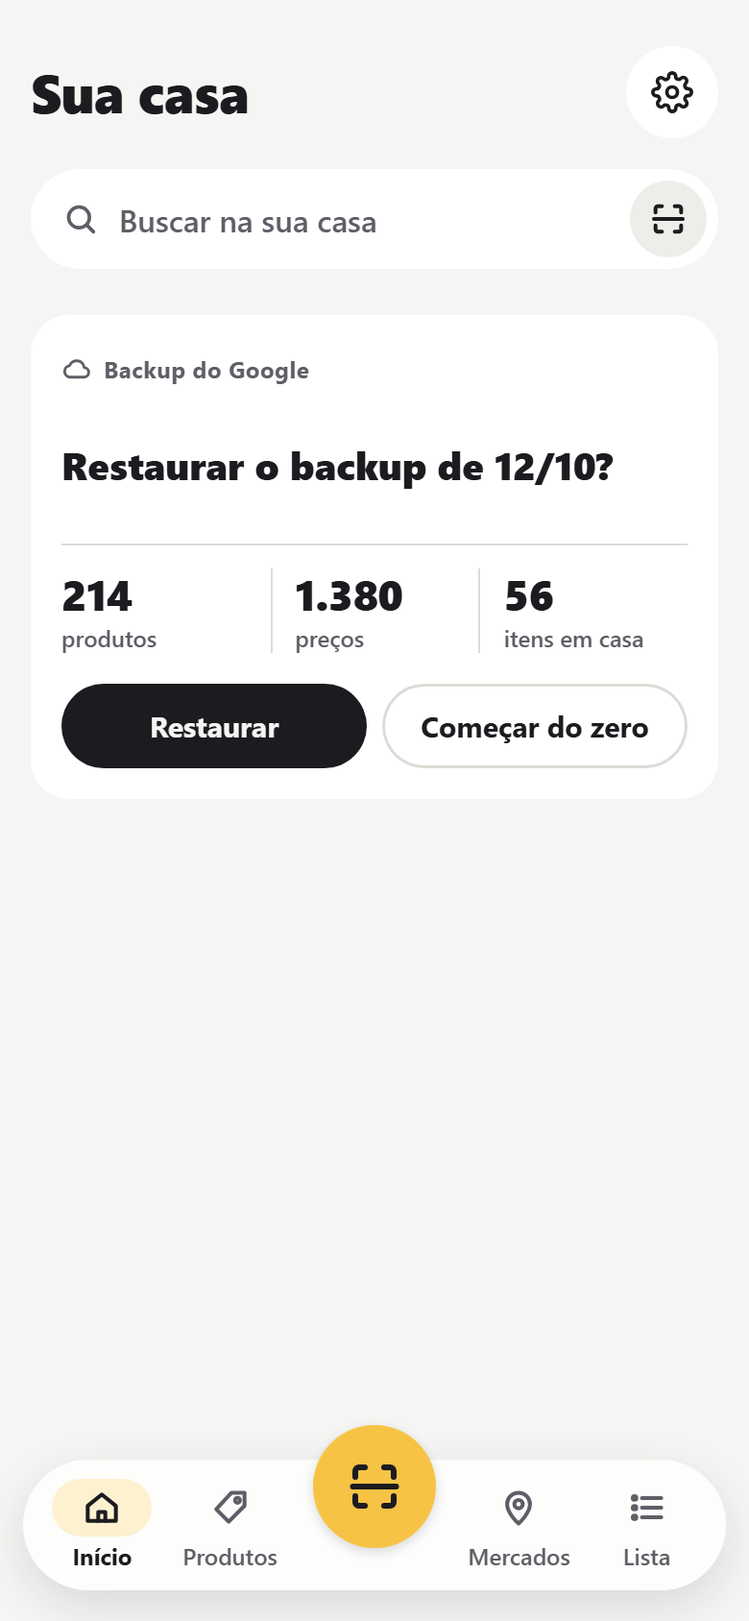
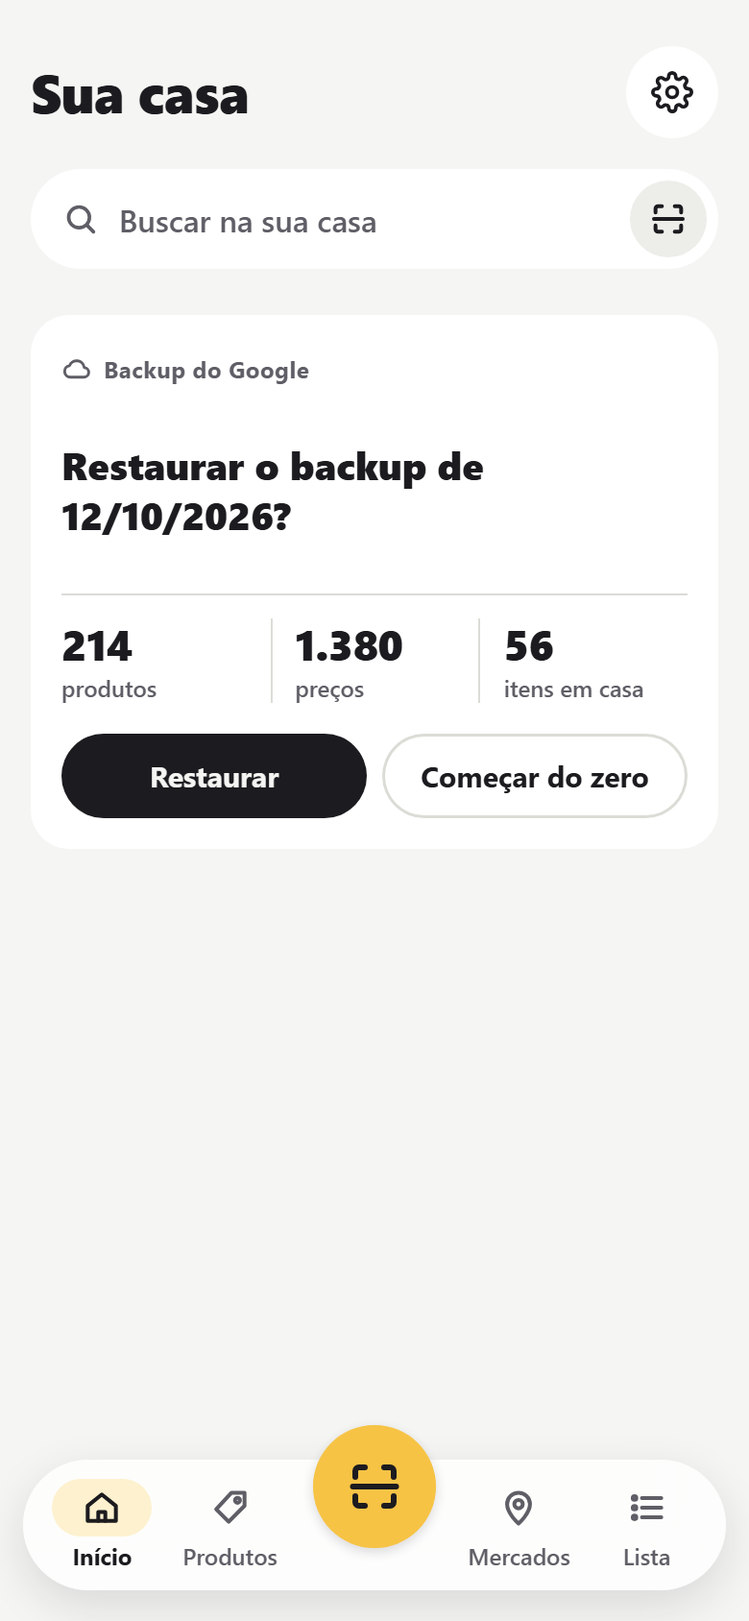
docs(design): mantém o cartão do backup encontrado até a resposta
Quadro InicioBackupPendente (BK1): com itens em casa, o cartão continua,
menor, "Restaurar" passa pela folha de confirmação e "Deixar de lado"
avisa que o próximo backup grava por cima. O InicioBackupEncontrado
ganha o ano no título, e o README deixa de prometer que o arquivo é
restaurável pelos Ajustes, o que o app não faz. Aguarda revisão.

diff --git a/docs/design/prototipo/fonte/InicioBackupPendente.dc.html b/docs/design/prototipo/fonte/InicioBackupPendente.dc.html
@@ -1,0 +1,99 @@
+<!doctype html>
+<html lang="pt-BR">
+<head>
+<meta charset="utf-8">
+<title>Casa: backup de outro celular ainda sem resposta</title>
+<script src="./support.js"></script>
+<link rel="stylesheet" href="styles/tokens.css">
+<link rel="stylesheet" href="ds/bipa/components/bundle.css">
+</head>
+<body>
+<x-dc>
+<helmet>
+<link rel="stylesheet" href="https://fonts.googleapis.com/css2?family=Manrope:wght@600..800&amp;family=Figtree:wght@400..700&amp;family=JetBrains+Mono:wght@500&amp;display=swap">
+<style>
+body{margin:0}
+a{color:#1C1B22}a:hover{color:#B00E28}
+.screen{position:relative;width:780px;height:970px;box-sizing:border-box;overflow:hidden;background:var(--surface-sunken);display:grid;grid-template-columns:repeat(2,360px);gap:20px;padding:20px 20px 0}
+.col{display:grid;align-content:start;grid-template-rows:118px auto auto;gap:10px}
+.note h2{margin:0;font:800 18px/24px var(--font-display);color:var(--ink)}
+.note p{margin:4px 0 0;font:500 13px/18px var(--font-body);color:var(--ink-muted)}
+.measure{margin:0;padding:10px 14px;border-radius:14px;background:var(--surface);font:500 13px/18px var(--font-body);color:var(--ink)}
+.measure b{font-weight:700}
+.phone{position:relative;height:700px;border-radius:28px;overflow:hidden;background:var(--ground)}
+
+.title{margin:0;font:800 28px/34px var(--font-display);letter-spacing:-0.01em;color:var(--ink)}
+.round-btn{display:grid;place-items:center;width:48px;height:48px;border:0;border-radius:50%;background:var(--surface);color:var(--ink)}
+.nav-wrap{position:absolute;left:12px;right:12px;bottom:16px;z-index:3}
+.content{display:flex;flex-direction:column;gap:20px;padding:20px 12px 130px}
+.head{display:flex;flex-direction:column;gap:16px}
+.title-row{display:flex;align-items:center;justify-content:space-between;gap:12px}
+.title-row .round-btn{text-decoration:none}
+.section{display:flex;flex-direction:column;gap:8px}
+.section-head{display:flex;align-items:center;gap:8px;padding:0 4px}
+.section-title{margin:0;font:700 20px/26px var(--font-display);color:var(--ink)}
+/* O cartão "Backup encontrado" com a casa já em uso (proposta): o mesmo InsightCard de pergunta, menor.
+   Os números numa linha de texto no lugar dos bipa-facts, para não disputar com a casa; o mesmo lugar
+   do cartão do relatório de falhas, depois dos locais. Sem ×: fica até a resposta. */
+.ask .bipa-insight__eyebrow{color:var(--ink-muted)}
+.ask .bipa-insight__headline{margin:0;font-size:18px;line-height:24px}
+.ask .bipa-insight__why{margin:0}
+.ask .bipa-insight__actions{display:grid;grid-template-columns:1fr 1fr;gap:var(--space-2);margin-top:var(--space-1)}
+.ask .bipa-insight__actions .bipa-btn{width:100%;padding:0 12px}
+.bipa-root button.bipa-btn{font:700 15px/1 var(--font-body)}
+
+/* O aviso do app (bipa-toast), como em RestaurarBackupResultado: ink, a ação em price e a linha do tempo, 10 s. */
+.snack-wrap{position:absolute;left:12px;right:12px;bottom:104px;z-index:4}
+.snack{position:relative;overflow:hidden;display:flex;align-items:center;gap:12px;min-height:48px;padding:6px 8px 6px 16px;border-radius:var(--radius-lg);background:var(--ink);color:var(--ground);box-shadow:var(--shadow-float);font:600 14px/20px var(--font-body)}
+.snack span{flex:1;min-width:0}
+.snack button{min-height:48px;padding:0 12px;border:0;border-radius:var(--radius-pill);background:none;color:var(--price);font:800 14px/18px var(--font-body)}
+.snack i{position:absolute;left:0;bottom:0;width:80%;height:3px;background:var(--price)}
+</style>
+</helmet>
+<div class="screen bipa-root">
+
+  <!-- 1 · O cartão fica até a resposta -->
+  <section class="col" aria-labelledby="t-1">
+    <header class="note"><h2 id="t-1">1 · O cartão fica até a resposta</h2><p>A pessoa foi às compras antes de responder, e a casa já tem 6 itens. O cartão continua, menor, depois dos locais, com os números numa linha. "Restaurar" agora passa pela folha de confirmação, porque já há o que perder.</p></header>
+    <div class="phone"><div class="content">
+        <header class="head"><div class="title-row"><h1 class="title">Sua casa</h1><a class="round-btn" href="AjustesBackupPendente.dc.html" aria-label="Ajustes"><svg width="22" height="22" viewBox="0 0 24 24" fill="none" stroke="currentColor" stroke-width="2" stroke-linecap="round" stroke-linejoin="round" aria-hidden="true"><circle cx="12" cy="12" r="3"/><path d="M19.4 15a1.65 1.65 0 0 0 .33 1.82l.06.06a2 2 0 0 1 0 2.83 2 2 0 0 1-2.83 0l-.06-.06a1.65 1.65 0 0 0-1.82-.33 1.65 1.65 0 0 0-1 1.51V21a2 2 0 0 1-4 0v-.09A1.65 1.65 0 0 0 9 19.4a1.65 1.65 0 0 0-1.82.33l-.06.06a2 2 0 0 1-2.83-2.83l.06-.06a1.65 1.65 0 0 0 .33-1.82 1.65 1.65 0 0 0-1.51-1H3a2 2 0 0 1 0-4h.09A1.65 1.65 0 0 0 4.6 9a1.65 1.65 0 0 0-.33-1.82l-.06-.06a2 2 0 0 1 2.83-2.83l.06.06a1.65 1.65 0 0 0 1.82.33H9a1.65 1.65 0 0 0 1-1.51V3a2 2 0 0 1 4 0v.09a1.65 1.65 0 0 0 1 1.51 1.65 1.65 0 0 0 1.82-.33l.06-.06a2 2 0 0 1 2.83 2.83l-.06.06a1.65 1.65 0 0 0-.33 1.82V9a1.65 1.65 0 0 0 1.51 1H21a2 2 0 0 1 0 4h-.09a1.65 1.65 0 0 0-1.51 1z"/></svg></a></div><label class="bipa-search"><svg viewBox="0 0 24 24" fill="none" stroke="currentColor" stroke-width="2.2" stroke-linecap="round" stroke-linejoin="round" aria-hidden="true"><circle cx="11" cy="11" r="6.5"/><path d="M16 16l4 4"/></svg><input type="search" placeholder="Buscar na sua casa" aria-label="Buscar na sua casa"><button class="bipa-search__scan" type="button" aria-label="Bipar um produto"><svg viewBox="0 0 24 24" fill="none" stroke="currentColor" stroke-width="2.4" stroke-linecap="round" stroke-linejoin="round" aria-hidden="true"><path d="M4 8V5.5A1.5 1.5 0 0 1 5.5 4H8M16 4h2.5A1.5 1.5 0 0 1 20 5.5V8M20 16v2.5a1.5 1.5 0 0 1-1.5 1.5H16M8 20H5.5A1.5 1.5 0 0 1 4 18.5V16M3 12h18"/></svg></button></label></header>
+        <div class="bipa-filter bipa-filter--tiles" role="group" aria-label="Filtrar por local" data-target=".screen"><button type="button" data-value="all" aria-pressed="true"><span class="bipa-filter__art"><svg viewBox="0 0 24 24" fill="none" stroke="currentColor" stroke-width="1.9" stroke-linecap="round" stroke-linejoin="round" aria-hidden="true"><rect x="4" y="4" width="7" height="7" rx="1.5"/><rect x="13" y="4" width="7" height="7" rx="1.5"/><rect x="4" y="13" width="7" height="7" rx="1.5"/><rect x="13" y="13" width="7" height="7" rx="1.5"/></svg><small>6</small></span>Tudo</button><button type="button" data-value="pantry" aria-pressed="false"><span class="bipa-filter__art"><svg viewBox="0 0 24 24" fill="none" stroke="currentColor" stroke-width="1.9" stroke-linecap="round" stroke-linejoin="round" aria-hidden="true"><path d="M4 20V8l8-4 8 4v12M4 13h16M4 17h16"/></svg><small>3</small></span>Despensa</button><button type="button" data-value="fridge" aria-pressed="false"><span class="bipa-filter__art"><svg viewBox="0 0 24 24" fill="none" stroke="currentColor" stroke-width="1.9" stroke-linecap="round" stroke-linejoin="round" aria-hidden="true"><rect x="5" y="3" width="14" height="18" rx="2.5"/><path d="M5 10h14M8 6.5v1M8 13v2"/></svg><small>2</small></span>Geladeira</button><button type="button" data-value="bath" aria-pressed="false"><span class="bipa-filter__art"><svg viewBox="0 0 24 24" fill="none" stroke="currentColor" stroke-width="1.9" stroke-linecap="round" stroke-linejoin="round" aria-hidden="true"><path d="M4 12h16v2a5 5 0 0 1-5 5H9a5 5 0 0 1-5-5zM6 12V6a2 2 0 0 1 4 0M7 19l-1 2M17 19l1 2"/></svg><small>1</small></span>Banheiro</button></div>
+        <article class="bipa-insight ask" aria-labelledby="ask-title" aria-describedby="ask-why">
+          <span class="bipa-insight__eyebrow"><svg width="16" height="16" viewBox="0 0 24 24" fill="none" stroke="currentColor" stroke-width="2.2" stroke-linecap="round" stroke-linejoin="round" aria-hidden="true"><path d="M7 18.5a4.5 4.5 0 0 1-.7-8.95 6 6 0 0 1 11.5 1.45A3.75 3.75 0 0 1 17.25 18.5z"/></svg>Backup do Google</span>
+          <h2 class="bipa-insight__headline" id="ask-title">Restaurar o backup de 12/10/2026?</h2>
+          <p class="bipa-insight__why" id="ask-why">214 produtos, 1.380 preços e 56 itens em casa</p>
+          <div class="bipa-insight__actions"><a class="bipa-btn bipa-btn--neutral" href="AjustesBackupPendente.dc.html#t-3" style="text-decoration:none"><span>Restaurar</span></a><a class="bipa-btn bipa-btn--secondary" href="#t-2" style="text-decoration:none"><span>Deixar de lado</span></a></div>
+        </article>
+        <section class="section">
+          <div class="section-head"><h2 class="section-title">Em casa</h2><span class="bipa-count">6</span></div>
+          <div class="bipa-shelf"><div class="bipa-shelf__item"><button class="bipa-shelf__row" type="button" aria-expanded="false"><span class="bipa-thumb"><svg viewBox="0 0 24 24" fill="none" stroke="currentColor" stroke-width="2" stroke-linecap="round" stroke-linejoin="round" aria-hidden="true"><path d="M5 9h11v5a5 5 0 0 1-5 5h-1a5 5 0 0 1-5-5z"/><path d="M16 11h1.5a2.5 2.5 0 0 1 0 5H16M8 3v3M11 3v3"/></svg></span><span class="bipa-shelf__name">Café Pilão tradicional 500&nbsp;g</span><span class="bipa-gauge" style="--p: 100" role="img" aria-label="1 embalagem em casa"><svg viewBox="0 0 40 40" aria-hidden="true"><circle class="bipa-gauge__track" cx="20" cy="20" r="17" pathLength="100"/><circle class="bipa-gauge__fill" cx="20" cy="20" r="17" pathLength="100"/></svg><span class="bipa-gauge__value">1</span></span></button></div><div class="bipa-shelf__item"><button class="bipa-shelf__row" type="button" aria-expanded="false"><span class="bipa-thumb"><svg viewBox="0 0 24 24" fill="none" stroke="currentColor" stroke-width="2" stroke-linecap="round" stroke-linejoin="round" aria-hidden="true"><path d="M3.5 11h17a8.5 8.5 0 0 1-17 0z"/><path d="M8.5 8.5c.6-1.2 2-1.2 2.6 0M13 7.5c.6-1.2 2-1.2 2.6 0"/></svg></span><span class="bipa-shelf__name">Feijão carioca Kicaldo 1&nbsp;kg</span><span class="bipa-gauge" style="--p: 100" role="img" aria-label="3 embalagens em casa"><svg viewBox="0 0 40 40" aria-hidden="true"><circle class="bipa-gauge__track" cx="20" cy="20" r="17" pathLength="100"/><circle class="bipa-gauge__fill" cx="20" cy="20" r="17" pathLength="100"/></svg><span class="bipa-gauge__value">3</span></span></button></div><div class="bipa-shelf__item"><button class="bipa-shelf__row" type="button" aria-expanded="false"><span class="bipa-thumb"><svg viewBox="0 0 24 24" fill="none" stroke="currentColor" stroke-width="2" stroke-linecap="round" stroke-linejoin="round" aria-hidden="true"><path d="M8 3h8v3l2 3v12H6V9l2-3z"/><path d="M6 9h12"/></svg></span><span class="bipa-shelf__name">Leite integral 1&nbsp;L</span><span class="bipa-gauge" style="--p: 100" role="img" aria-label="2 embalagens em casa"><svg viewBox="0 0 40 40" aria-hidden="true"><circle class="bipa-gauge__track" cx="20" cy="20" r="17" pathLength="100"/><circle class="bipa-gauge__fill" cx="20" cy="20" r="17" pathLength="100"/></svg><span class="bipa-gauge__value">2</span></span></button></div></div>
+        </section>
+      </div><div class="nav-wrap"><nav class="bipa-nav bipa-nav--glass" aria-label="Navegação principal"><span class="bipa-nav__indicator" aria-hidden="true" style="width: 52px; transform: translateX(15px);"></span><a class="bipa-nav__dest" href="#" aria-current="page" style="text-decoration: none;"><span class="bipa-nav__icon"><svg width="24" height="24" viewBox="0 0 24 24" fill="none" stroke="currentColor" stroke-width="2.2" stroke-linecap="round" stroke-linejoin="round" aria-hidden="true"><path d="M4 11l8-6.5 8 6.5v8.5H4z"/><path d="M10 19.5v-5h4v5"/></svg></span><span class="bipa-nav__label">Início</span></a><a class="bipa-nav__dest" href="#" style="text-decoration: none;"><span class="bipa-nav__icon"><svg width="24" height="24" viewBox="0 0 24 24" fill="none" stroke="currentColor" stroke-width="2.2" stroke-linecap="round" stroke-linejoin="round" aria-hidden="true"><path d="M12.6 3.5H20v7.4L11 20 3.9 12.9z"/><circle cx="16" cy="7.8" r="1.4"/></svg></span><span class="bipa-nav__label">Produtos</span></a><a class="bipa-scan" href="#" aria-label="Bipar (segure para mais opções)"><span class="bipa-scan__icon"><span class="bipa-scan__glyph" style="display: grid;"><svg width="30" height="30" viewBox="0 0 24 24" fill="none" stroke="currentColor" stroke-width="2.4" stroke-linecap="round" stroke-linejoin="round" aria-hidden="true"><path d="M4 8V5.5A1.5 1.5 0 0 1 5.5 4H8M16 4h2.5A1.5 1.5 0 0 1 20 5.5V8M20 16v2.5a1.5 1.5 0 0 1-1.5 1.5H16M8 20H5.5A1.5 1.5 0 0 1 4 18.5V16M3 12h18"/></svg></span></span></a><a class="bipa-nav__dest" href="#" style="text-decoration: none;"><span class="bipa-nav__icon"><svg width="24" height="24" viewBox="0 0 24 24" fill="none" stroke="currentColor" stroke-width="2.2" stroke-linecap="round" stroke-linejoin="round" aria-hidden="true"><path d="M12 21s-6.5-5.6-6.5-11a6.5 6.5 0 0 1 13 0c0 5.4-6.5 11-6.5 11z"/><circle cx="12" cy="10" r="2.4"/></svg></span><span class="bipa-nav__label">Mercados</span></a><a class="bipa-nav__dest" href="#" style="text-decoration: none;"><span class="bipa-nav__icon"><svg width="24" height="24" viewBox="0 0 24 24" fill="none" stroke="currentColor" stroke-width="2.2" stroke-linecap="round" stroke-linejoin="round" aria-hidden="true"><path d="M9 6.5h11M9 12h11M9 17.5h11"/><circle cx="4.8" cy="6.5" r="1"/><circle cx="4.8" cy="12" r="1"/><circle cx="4.8" cy="17.5" r="1"/></svg></span><span class="bipa-nav__label">Lista</span></a></nav></div></div>
+    <p class="measure"><b>Restaurar</b> abre a folha do terceiro momento de AjustesBackupPendente. <b>Deixar de lado</b> fica no lugar de "Começar do zero", que não serve a quem já começou.</p>
+  </section>
+
+  <!-- 2 · Deixar de lado -->
+  <section class="col" aria-labelledby="t-2">
+    <header class="note"><h2 id="t-2">2 · Deixar de lado</h2><p>O cartão sai na hora, e o aviso diz o que vai acontecer com o backup, com o Desfazer por 10 s, que traz o cartão de volta. Passado o aviso, o automático volta e grava por cima no dia seguinte.</p></header>
+    <div class="phone"><div class="content">
+        <header class="head"><div class="title-row"><h1 class="title">Sua casa</h1><a class="round-btn" href="AjustesBackupPendente.dc.html" aria-label="Ajustes"><svg width="22" height="22" viewBox="0 0 24 24" fill="none" stroke="currentColor" stroke-width="2" stroke-linecap="round" stroke-linejoin="round" aria-hidden="true"><circle cx="12" cy="12" r="3"/><path d="M19.4 15a1.65 1.65 0 0 0 .33 1.82l.06.06a2 2 0 0 1 0 2.83 2 2 0 0 1-2.83 0l-.06-.06a1.65 1.65 0 0 0-1.82-.33 1.65 1.65 0 0 0-1 1.51V21a2 2 0 0 1-4 0v-.09A1.65 1.65 0 0 0 9 19.4a1.65 1.65 0 0 0-1.82.33l-.06.06a2 2 0 0 1-2.83-2.83l.06-.06a1.65 1.65 0 0 0 .33-1.82 1.65 1.65 0 0 0-1.51-1H3a2 2 0 0 1 0-4h.09A1.65 1.65 0 0 0 4.6 9a1.65 1.65 0 0 0-.33-1.82l-.06-.06a2 2 0 0 1 2.83-2.83l.06.06a1.65 1.65 0 0 0 1.82.33H9a1.65 1.65 0 0 0 1-1.51V3a2 2 0 0 1 4 0v.09a1.65 1.65 0 0 0 1 1.51 1.65 1.65 0 0 0 1.82-.33l.06-.06a2 2 0 0 1 2.83 2.83l-.06.06a1.65 1.65 0 0 0-.33 1.82V9a1.65 1.65 0 0 0 1.51 1H21a2 2 0 0 1 0 4h-.09a1.65 1.65 0 0 0-1.51 1z"/></svg></a></div><label class="bipa-search"><svg viewBox="0 0 24 24" fill="none" stroke="currentColor" stroke-width="2.2" stroke-linecap="round" stroke-linejoin="round" aria-hidden="true"><circle cx="11" cy="11" r="6.5"/><path d="M16 16l4 4"/></svg><input type="search" placeholder="Buscar na sua casa" aria-label="Buscar na sua casa"><button class="bipa-search__scan" type="button" aria-label="Bipar um produto"><svg viewBox="0 0 24 24" fill="none" stroke="currentColor" stroke-width="2.4" stroke-linecap="round" stroke-linejoin="round" aria-hidden="true"><path d="M4 8V5.5A1.5 1.5 0 0 1 5.5 4H8M16 4h2.5A1.5 1.5 0 0 1 20 5.5V8M20 16v2.5a1.5 1.5 0 0 1-1.5 1.5H16M8 20H5.5A1.5 1.5 0 0 1 4 18.5V16M3 12h18"/></svg></button></label></header>
+        <div class="bipa-filter bipa-filter--tiles" role="group" aria-label="Filtrar por local" data-target=".screen"><button type="button" data-value="all" aria-pressed="true"><span class="bipa-filter__art"><svg viewBox="0 0 24 24" fill="none" stroke="currentColor" stroke-width="1.9" stroke-linecap="round" stroke-linejoin="round" aria-hidden="true"><rect x="4" y="4" width="7" height="7" rx="1.5"/><rect x="13" y="4" width="7" height="7" rx="1.5"/><rect x="4" y="13" width="7" height="7" rx="1.5"/><rect x="13" y="13" width="7" height="7" rx="1.5"/></svg><small>6</small></span>Tudo</button><button type="button" data-value="pantry" aria-pressed="false"><span class="bipa-filter__art"><svg viewBox="0 0 24 24" fill="none" stroke="currentColor" stroke-width="1.9" stroke-linecap="round" stroke-linejoin="round" aria-hidden="true"><path d="M4 20V8l8-4 8 4v12M4 13h16M4 17h16"/></svg><small>3</small></span>Despensa</button><button type="button" data-value="fridge" aria-pressed="false"><span class="bipa-filter__art"><svg viewBox="0 0 24 24" fill="none" stroke="currentColor" stroke-width="1.9" stroke-linecap="round" stroke-linejoin="round" aria-hidden="true"><rect x="5" y="3" width="14" height="18" rx="2.5"/><path d="M5 10h14M8 6.5v1M8 13v2"/></svg><small>2</small></span>Geladeira</button><button type="button" data-value="bath" aria-pressed="false"><span class="bipa-filter__art"><svg viewBox="0 0 24 24" fill="none" stroke="currentColor" stroke-width="1.9" stroke-linecap="round" stroke-linejoin="round" aria-hidden="true"><path d="M4 12h16v2a5 5 0 0 1-5 5H9a5 5 0 0 1-5-5zM6 12V6a2 2 0 0 1 4 0M7 19l-1 2M17 19l1 2"/></svg><small>1</small></span>Banheiro</button></div>
+        
+        <section class="section">
+          <div class="section-head"><h2 class="section-title">Em casa</h2><span class="bipa-count">6</span></div>
+          <div class="bipa-shelf"><div class="bipa-shelf__item"><button class="bipa-shelf__row" type="button" aria-expanded="false"><span class="bipa-thumb"><svg viewBox="0 0 24 24" fill="none" stroke="currentColor" stroke-width="2" stroke-linecap="round" stroke-linejoin="round" aria-hidden="true"><path d="M5 9h11v5a5 5 0 0 1-5 5h-1a5 5 0 0 1-5-5z"/><path d="M16 11h1.5a2.5 2.5 0 0 1 0 5H16M8 3v3M11 3v3"/></svg></span><span class="bipa-shelf__name">Café Pilão tradicional 500&nbsp;g</span><span class="bipa-gauge" style="--p: 100" role="img" aria-label="1 embalagem em casa"><svg viewBox="0 0 40 40" aria-hidden="true"><circle class="bipa-gauge__track" cx="20" cy="20" r="17" pathLength="100"/><circle class="bipa-gauge__fill" cx="20" cy="20" r="17" pathLength="100"/></svg><span class="bipa-gauge__value">1</span></span></button></div><div class="bipa-shelf__item"><button class="bipa-shelf__row" type="button" aria-expanded="false"><span class="bipa-thumb"><svg viewBox="0 0 24 24" fill="none" stroke="currentColor" stroke-width="2" stroke-linecap="round" stroke-linejoin="round" aria-hidden="true"><path d="M3.5 11h17a8.5 8.5 0 0 1-17 0z"/><path d="M8.5 8.5c.6-1.2 2-1.2 2.6 0M13 7.5c.6-1.2 2-1.2 2.6 0"/></svg></span><span class="bipa-shelf__name">Feijão carioca Kicaldo 1&nbsp;kg</span><span class="bipa-gauge" style="--p: 100" role="img" aria-label="3 embalagens em casa"><svg viewBox="0 0 40 40" aria-hidden="true"><circle class="bipa-gauge__track" cx="20" cy="20" r="17" pathLength="100"/><circle class="bipa-gauge__fill" cx="20" cy="20" r="17" pathLength="100"/></svg><span class="bipa-gauge__value">3</span></span></button></div><div class="bipa-shelf__item"><button class="bipa-shelf__row" type="button" aria-expanded="false"><span class="bipa-thumb"><svg viewBox="0 0 24 24" fill="none" stroke="currentColor" stroke-width="2" stroke-linecap="round" stroke-linejoin="round" aria-hidden="true"><path d="M8 3h8v3l2 3v12H6V9l2-3z"/><path d="M6 9h12"/></svg></span><span class="bipa-shelf__name">Leite integral 1&nbsp;L</span><span class="bipa-gauge" style="--p: 100" role="img" aria-label="2 embalagens em casa"><svg viewBox="0 0 40 40" aria-hidden="true"><circle class="bipa-gauge__track" cx="20" cy="20" r="17" pathLength="100"/><circle class="bipa-gauge__fill" cx="20" cy="20" r="17" pathLength="100"/></svg><span class="bipa-gauge__value">2</span></span></button></div></div>
+        </section>
+      </div><div class="snack-wrap" role="status"><div class="snack"><span>Backup de 12/10/2026 deixado de lado. O próximo grava por cima.</span><button type="button">Desfazer</button><i aria-hidden="true"></i></div></div><div class="nav-wrap"><nav class="bipa-nav bipa-nav--glass" aria-label="Navegação principal"><span class="bipa-nav__indicator" aria-hidden="true" style="width: 52px; transform: translateX(15px);"></span><a class="bipa-nav__dest" href="#" aria-current="page" style="text-decoration: none;"><span class="bipa-nav__icon"><svg width="24" height="24" viewBox="0 0 24 24" fill="none" stroke="currentColor" stroke-width="2.2" stroke-linecap="round" stroke-linejoin="round" aria-hidden="true"><path d="M4 11l8-6.5 8 6.5v8.5H4z"/><path d="M10 19.5v-5h4v5"/></svg></span><span class="bipa-nav__label">Início</span></a><a class="bipa-nav__dest" href="#" style="text-decoration: none;"><span class="bipa-nav__icon"><svg width="24" height="24" viewBox="0 0 24 24" fill="none" stroke="currentColor" stroke-width="2.2" stroke-linecap="round" stroke-linejoin="round" aria-hidden="true"><path d="M12.6 3.5H20v7.4L11 20 3.9 12.9z"/><circle cx="16" cy="7.8" r="1.4"/></svg></span><span class="bipa-nav__label">Produtos</span></a><a class="bipa-scan" href="#" aria-label="Bipar (segure para mais opções)"><span class="bipa-scan__icon"><span class="bipa-scan__glyph" style="display: grid;"><svg width="30" height="30" viewBox="0 0 24 24" fill="none" stroke="currentColor" stroke-width="2.4" stroke-linecap="round" stroke-linejoin="round" aria-hidden="true"><path d="M4 8V5.5A1.5 1.5 0 0 1 5.5 4H8M16 4h2.5A1.5 1.5 0 0 1 20 5.5V8M20 16v2.5a1.5 1.5 0 0 1-1.5 1.5H16M8 20H5.5A1.5 1.5 0 0 1 4 18.5V16M3 12h18"/></svg></span></span></a><a class="bipa-nav__dest" href="#" style="text-decoration: none;"><span class="bipa-nav__icon"><svg width="24" height="24" viewBox="0 0 24 24" fill="none" stroke="currentColor" stroke-width="2.2" stroke-linecap="round" stroke-linejoin="round" aria-hidden="true"><path d="M12 21s-6.5-5.6-6.5-11a6.5 6.5 0 0 1 13 0c0 5.4-6.5 11-6.5 11z"/><circle cx="12" cy="10" r="2.4"/></svg></span><span class="bipa-nav__label">Mercados</span></a><a class="bipa-nav__dest" href="#" style="text-decoration: none;"><span class="bipa-nav__icon"><svg width="24" height="24" viewBox="0 0 24 24" fill="none" stroke="currentColor" stroke-width="2.2" stroke-linecap="round" stroke-linejoin="round" aria-hidden="true"><path d="M9 6.5h11M9 12h11M9 17.5h11"/><circle cx="4.8" cy="6.5" r="1"/><circle cx="4.8" cy="12" r="1"/><circle cx="4.8" cy="17.5" r="1"/></svg></span><span class="bipa-nav__label">Lista</span></a></nav></div></div>
+    <p class="measure"><b>Até o aviso sair</b>, o backup ainda está pendente, e Ajustes ainda é o de AjustesBackupPendente. <b>Leitor de tela:</b> o aviso fica até o toque, como todo aviso com Desfazer.</p>
+  </section>
+</div>
+</x-dc>
+<script type="text/x-dc" data-dc-script data-props='{"$preview":{"width":780,"height":970}}'>
+class Component extends DCLogic {
+  renderVals() {
+    return {};
+  }
+}
+</script>
+</body>
+</html>

diff --git a/docs/design/prototipo/fonte/InicioBackupEncontrado.dc.html b/docs/design/prototipo/fonte/InicioBackupEncontrado.dc.html
@@ -25,7 +25,8 @@ a{color:#1C1B22}a:hover{color:#B00E28}
 .enter{animation:bipa-fade-up var(--duration-slow) var(--easing-standard) both}
 /* Backup encontrado (proposta): o cartão de pergunta do InsightCard, neutro, no lugar do convite da casa vazia.
    Os números do arquivo nos bipa-facts; "Restaurar" no botão neutro, porque é a resposta esperada e não apaga
-   nada (a casa está vazia), e "Começar do zero" no secundário, com a mesma largura. Sem ×: a pergunta fica até a resposta. */
+   nada (a casa está vazia), e "Começar do zero" no secundário, com a mesma largura. Sem ×: a pergunta fica até a resposta,
+   mesmo depois do primeiro item em casa (InicioBackupPendente). */
 .ask .bipa-insight__eyebrow{color:var(--ink-muted)}
 .ask .bipa-facts{--facts:3;margin-top:4px}
 .ask .bipa-insight__actions{display:grid;grid-template-columns:1fr 1fr;gap:var(--space-2);margin-top:var(--space-2)}
@@ -42,7 +43,7 @@ a{color:#1C1B22}a:hover{color:#B00E28}
 
     <div class="enter" style="animation-delay: 40ms;"><article class="bipa-insight ask" aria-labelledby="ask-title">
       <span class="bipa-insight__eyebrow"><svg width="16" height="16" viewBox="0 0 24 24" fill="none" stroke="currentColor" stroke-width="2.2" stroke-linecap="round" stroke-linejoin="round" aria-hidden="true"><path d="M7 18.5a4.5 4.5 0 0 1-.7-8.95 6 6 0 0 1 11.5 1.45A3.75 3.75 0 0 1 17.25 18.5z"/></svg>Backup do Google</span>
-      <h2 class="bipa-insight__headline" id="ask-title">Restaurar o backup de 12/10?</h2>
+      <h2 class="bipa-insight__headline" id="ask-title">Restaurar o backup de 12/10/2026?</h2>
       <div class="bipa-facts">
         <div class="bipa-fact"><span class="bipa-fact__value">214</span><span class="bipa-fact__label">produtos</span></div>
         <div class="bipa-fact"><span class="bipa-fact__value">1.380</span><span class="bipa-fact__label">preços</span></div>

diff --git a/docs/design/prototipo/README.md b/docs/design/prototipo/README.md
@@ -47,7 +47,8 @@ Cada tela tem uma imagem (390 px de largura, em 2x) e o HTML de origem em [`font
 | **Backup em Ajustes** (ADR 0023, seção 5): o grupo "Backup" vem primeiro em Ajustes. A primeira linha só informa o último backup, com o dia grande e a hora embaixo ("hoje" e "08:40"; "ontem", "12/10"; sem nenhum, "nenhum ainda"), e diz em uma frase que ele é automático, uma vez por dia, e vai para um celular novo pelo backup do Google. Embaixo, três linhas que são botões, com ícone e texto: **Fazer backup agora** (o ícone vira o indicador de carregamento do design system e, ao terminar, o valor passa a "agora", anunciado ao leitor de tela, sem aviso), **Salvar uma cópia…** (grava um backup e abre o seletor de arquivos do Android para salvar `bipa-2026-10-29.bipa` onde a pessoa quiser; salvo, o aviso "Cópia salva") e **Restaurar de um arquivo…** (o fluxo do quadro seguinte). O "…" diz que a ação abre outra tela do Android. Nenhuma cor de destaque. | [AjustesBackup.png](telas/AjustesBackup.png) | Feita em 29/10/2026 (`BackupSettingsCard`, no topo da `SettingsPage`). Decisões do mantenedor em 29/10: o grupo se chama "Backup", sem cor de destaque, e, quando o último backup passa dos 25 MB que o backup do Google leva, a frase dá lugar ao tamanho ("Com 31 MB, passou dos 25 MB…") e sugere "Salvar uma cópia…". O "Salvar como" e o "Abrir" são os do Android (Storage Access Framework), por um canal pequeno no `MainActivity`. O protótipo publicado no claude.ai precisa receber o quadro, com o aviso acima de 25 MB |
 | **Restaurar um backup** (ADR 0023, seção 5): "Restaurar de um arquivo…" abre o seletor de arquivos do Android, e a folha abre já **conferindo o arquivo** (o título com o indicador de carregamento, o nome do arquivo e o esqueleto dos números), fazendo numa cópia os passos 1 a 3 do ADR. Conferido, a folha mostra **o que tem no arquivo**: "Restaurar o backup de 12/10/2025?", com o ano, os números (produtos, preços, itens em casa), numa linha os mesmos três deste celular ("Neste celular agora: 230 produtos, 1.452 preços e 61 itens em casa.") e, com texto, que tudo o que está aqui é trocado. O botão é o neutro, "Substituir pelo backup", com "Cancelar" só texto. Tocar **restaura** (passos 4 e 5): o botão vira o indicador de carregamento, a folha não fecha e o Cancelar sai. O quadro tem 1160 px de largura, com os três momentos. | [RestaurarBackup.png](telas/RestaurarBackup.png) | Feita em 29/10/2026 (`RestoreSheet`, aberta por "Restaurar de um arquivo…"). Decisões do mantenedor em 29/10: os números deste celular numa linha da confirmação e o botão neutro "Substituir pelo backup". Diferença do quadro: quando a soma dos lotes de um item não bate com a quantidade em casa, a restauração acerta a quantidade pelos lotes em vez de recusar o arquivo (ADR 0023, seção 5), e a folha diz quantos itens mudaram ("2 itens tiveram a quantidade acertada pela soma das compras."), embaixo do aviso. Com letra a 150% ou mais, os três números ficam um embaixo do outro. O protótipo publicado no claude.ai precisa receber o quadro, com a linha da quantidade acertada. **Revisto em 29/10/2026 pelo [BK3](../../ux/analise-ux-2026-10-29-lote12.md) (aguarda revisão):** a linha deste celular passa a ter os mesmos três números do arquivo, na mesma ordem (o app mostra só produtos e preços, em `_CurrentLine`), e a data do título tem o ano (o app usa `dd/MM`), para um backup de um ano atrás não parecer de duas semanas. O protótipo publicado precisa da mesma mudança |
 | **Restaurar um backup, resultado**: **pronto**, a folha fecha em Ajustes e o aviso "Backup de 12/10 restaurado" traz o Desfazer por 10 s, que volta o banco de antes (a reserva do passo 4); o último backup não muda até o automático seguinte. **Arquivo que não abre** (não é `.bipa`, sem manifesto, hash, integridade, migração ou estoque que não batem): "Não deu para abrir este backup", "O arquivo não é um backup do Bipa ou está incompleto. Nada mudou neste celular.", com "Escolher outro arquivo" e "Fechar". **Backup de um Bipa mais novo** (esquema maior que o do app): "Este backup é de um Bipa mais novo", "Atualize o Bipa neste celular e escolha o arquivo de novo. Nada mudou aqui.", com "Atualizar o Bipa" (a página do app na loja) e "Fechar". Os dois erros entram no lugar da confirmação, com o ícone em `alert-text`. Fora do quadro: se a troca falhar, a reserva volta, a folha fecha e o aviso diz "Não deu para restaurar. Seus dados continuam como estavam."; sem espaço para a cópia, "Falta espaço no celular para conferir o backup" no lugar da confirmação. O quadro tem 1160 px de largura. | [RestaurarBackupResultado.png](telas/RestaurarBackupResultado.png) | Feita em 29/10/2026 (`RestoreSheet` e `applyRestoreAndNotify`): o aviso traz o Desfazer por 10 s (`BipaToastDuration.long`), que volta a reserva, e restaurar ou desfazer limpa o cache de imagens, para as fotos novas aparecerem. As duas mensagens de erro terminam em "Nada mudou neste celular." (o quadro dizia "Nada mudou aqui." na do Bipa mais novo). Diferenças: o ícone do arquivo que não abre é o de imagem quebrada do Material, que não tem o arquivo com ×; e a falta de espaço ainda não tem mensagem própria, cai em "Não deu para abrir este backup". O protótipo publicado no claude.ai precisa receber o quadro |
-| **Início no celular novo, backup encontrado** (ADR 0023, B1): o Android devolve o `backup/ultimo.bipa` ao instalar o app, antes de ele abrir, e não avisa. Na abertura, com o banco sem nada da pessoa e o arquivo presente, o Bipa lê o manifesto e o Início mostra, no lugar do convite da casa vazia, o cartão de pergunta do InsightCard: "Backup do Google", "Restaurar o backup de 12/10?", os números do arquivo e "Restaurar" (neutro) e "Começar do zero" (secundário), da mesma largura. Nada é restaurado sozinho. **Restaurar** confere e troca (passos 1 a 5 do ADR) com o botão carregando, sem a folha de confirmação, porque a casa vazia não perde nada; pronto, o Início se enche e o aviso diz "Backup de 12/10 restaurado", sem Desfazer. Um arquivo que não abre troca o cartão pela mensagem da folha de erro, com "Começar do zero". **Começar do zero** some com o cartão e mostra o aviso "Backup de 12/10 deixado de lado" com Desfazer por 10 s. Sem ×: enquanto a pessoa não responde, o cartão fica e o backup automático não grava por cima do arquivo; se ela bipar antes de responder, "Restaurar" passa pela folha de confirmação de [RestaurarBackup](telas/RestaurarBackup.png), porque já há o que perder. | [InicioBackupEncontrado.png](telas/InicioBackupEncontrado.png) | Feita em 29/10/2026 (`RestoreOfferCard`, no Início). Decisão do mantenedor em 29/10: o cartão "Backup encontrado", com "Restaurar" no neutro e "Começar do zero" no secundário. "Começar do zero" tira o cartão na hora, e o arquivo só é adotado quando o aviso sai sem o Desfazer; o Desfazer traz o cartão de volta. Depois, o arquivo continua restaurável pelos Ajustes até o próximo backup diário. Um arquivo de um Bipa mais novo mostra "Atualizar o Bipa" ao lado de "Começar do zero". Com letra a 150% ou mais, os botões e os números ficam um embaixo do outro. O protótipo publicado no claude.ai precisa receber o quadro |
+| **Início no celular novo, backup encontrado** (ADR 0023, B1): o Android devolve o `backup/ultimo.bipa` ao instalar o app, antes de ele abrir, e não avisa. Na abertura, com o banco sem nada da pessoa e o arquivo presente, o Bipa lê o manifesto e o Início mostra, no lugar do convite da casa vazia, o cartão de pergunta do InsightCard: "Backup do Google", "Restaurar o backup de 12/10/2026?" (com o ano, como a folha de confirmação), os números do arquivo e "Restaurar" (neutro) e "Começar do zero" (secundário), da mesma largura. Nada é restaurado sozinho. **Restaurar** confere e troca (passos 1 a 5 do ADR) com o botão carregando, sem a folha de confirmação, porque a casa vazia não perde nada; pronto, o Início se enche e o aviso diz "Backup de 12/10 restaurado", sem Desfazer. Um arquivo que não abre troca o cartão pela mensagem da folha de erro, com "Começar do zero". **Começar do zero** some com o cartão e mostra o aviso "Backup de 12/10 deixado de lado" com Desfazer por 10 s. Sem ×: enquanto a pessoa não responde, o cartão fica, mesmo com itens em casa, e o backup automático não grava por cima do arquivo; se ela bipar antes de responder, o cartão fica menor e "Restaurar" passa pela folha de confirmação de [RestaurarBackup](telas/RestaurarBackup.png), porque já há o que perder (quadro seguinte). | [InicioBackupEncontrado.png](telas/InicioBackupEncontrado.png) | Feita em 29/10/2026 (`RestoreOfferCard`, no Início). Decisão do mantenedor em 29/10: o cartão "Backup encontrado", com "Restaurar" no neutro e "Começar do zero" no secundário. "Começar do zero" tira o cartão na hora, e o arquivo só é adotado quando o aviso sai sem o Desfazer; o Desfazer traz o cartão de volta. Um arquivo de um Bipa mais novo mostra "Atualizar o Bipa" ao lado de "Começar do zero". Com letra a 150% ou mais, os botões e os números ficam um embaixo do outro. **Diferenças ([BK1](../../ux/analise-ux-2026-10-29-lote12.md)):** no app, o cartão só aparece com o banco vazio (`RestoreOffer`) e some com o primeiro item em casa, sem resposta; e, ao contrário do que esta linha dizia, o arquivo não é restaurável pelos Ajustes depois de "Começar do zero", porque o seletor do Android não vê a pasta do app. Os quadros [InicioBackupPendente](telas/InicioBackupPendente.png) e [AjustesBackupPendente](telas/AjustesBackupPendente.png) desenham o que falta e aguardam revisão; o ano no título também. O protótipo publicado no claude.ai precisa receber o quadro |
+| **Início com o backup de outro celular ainda sem resposta** ([BK1](../../ux/analise-ux-2026-10-29-lote12.md)): a pessoa bipou antes de responder ao cartão "Backup encontrado", e a casa já tem itens. **O cartão fica até a resposta**, menor: o mesmo InsightCard de pergunta, sem ×, com o título 18/24 e os números numa linha de texto ("214 produtos, 1.380 preços e 56 itens em casa") no lugar dos `bipa-facts`, no lugar do cartão do relatório de falhas (depois dos locais, antes de "Em casa"). **Restaurar** (neutro) abre a folha de confirmação, com os números deste celular, como o toque na linha de Ajustes. **Deixar de lado** (secundário) fica no lugar de "Começar do zero", que não serve a quem já começou: o cartão sai na hora e o aviso diz o que vai acontecer, "Backup de 12/10/2026 deixado de lado. O próximo grava por cima.", com o Desfazer por 10 s, que traz o cartão de volta. Passado o aviso, o automático volta. O quadro tem 780 px de largura, com os dois momentos. | [InicioBackupPendente.png](telas/InicioBackupPendente.png) | Não feita; o quadro aguarda revisão. Hoje o cartão depende do banco vazio (`RestoreOffer.call`, e `entries.isEmpty` no `home_page.dart`) e some com o primeiro item; "Restaurar" restaura direto quando os três números deste celular são zero, mesmo com uma lista escrita ou um mercado (BK4). O protótipo publicado no claude.ai precisa receber o quadro |
 | **Backup de outro celular em Ajustes** ([BK1](../../ux/analise-ux-2026-10-29-lote12.md)): enquanto o `ultimo.bipa` é de outro aparelho e a pessoa não decidiu sobre ele, o grupo "Backup" muda em três pontos. **A linha "Último backup" vira botão**: o ícone é o do celular com a seta, a frase diz a origem ("De outro celular. Toque para restaurar.") e o valor tem o dia grande e o ano embaixo ("12/10", "2026"); o toque abre a folha de [RestaurarBackup](telas/RestaurarBackup.png) com esse arquivo, sem o seletor do Android, que não vê a pasta do app, e com "De outro celular" no lugar do nome do arquivo. **"Fazer backup agora" diz o estado do automático** ("Automático pausado até você decidir") e, tocado, **pergunta antes de gravar por cima**, num diálogo como o das outras ações que apagam: "Apagar o backup do outro celular?", "O backup de 12/10/2026, com 214 produtos, 1.380 preços e 56 itens em casa, dá lugar ao deste celular e não volta mais.", com o neutro "Apagar e fazer backup" em cima e "Cancelar" só texto embaixo (o rótulo não cabe ao lado). **"Salvar uma cópia…" grava só a cópia** que a pessoa leva, sem tocar no backup do outro celular, e por isso não pergunta. Decidido (restaurado, gravado por cima ou "Começar do zero" no Início), o grupo volta a ser o de [AjustesBackup](telas/AjustesBackup.png). Nenhuma cor de destaque. O quadro tem 1160 px de largura, com os três momentos. | [AjustesBackupPendente.png](telas/AjustesBackupPendente.png) | Não feita; o quadro aguarda revisão. Hoje a linha só informa e continua dizendo "Automático, uma vez por dia" enquanto o diário não grava (`CreateBackup` pula com `!latest.madeHere`), e "Fazer backup agora" e "Salvar uma cópia…" gravam por cima sem perguntar. O protótipo publicado no claude.ai precisa receber o quadro |
 
 ## Divergências resolvidas
@@ -86,6 +87,7 @@ Os quadros que aguardam revisão foram desenhados nesta cópia, sem acesso ao cl
 - **Botão neutro carregando** ([RestaurarBackup.png](telas/RestaurarBackup.png)): o guia do Button descreve o carregando no principal; aqui o neutro (`ink`) troca o rótulo pelo `bipa-loader` em `ground`, sem mudar de largura, com `aria-busy` e o rótulo acessível "Restaurando". Aprovada e implementada no app em 29/10/2026 (`NeutralButton` e o `BipaLoader`, as quatro barras, que também ficam no lugar do ícone de "Fazer backup agora"); o design system publicado ainda precisa da variante.
 - **Folha de erro** ([RestaurarBackupResultado.png](telas/RestaurarBackupResultado.png)): a mesma folha, com um ícone de 28 em `alert-text` à esquerda do título e da mensagem, `role="alertdialog"`, o botão secundário com a saída e "Fechar" só texto. Sem botão cheio: a saída não é a ação principal da tela. Aprovada e implementada no app em 29/10/2026 (`RestoreSheet`); o design system publicado ainda precisa da variante.
 - **InsightCard de pergunta com números e resposta esperada** ([InicioBackupEncontrado.png](telas/InicioBackupEncontrado.png)): o cartão de pergunta do relatório de falhas, sem o ×, com os `bipa-facts` no lugar da frase e os botões em grade de duas colunas, mas o primeiro no neutro (`ink`): aqui há uma resposta esperada e nada a consentir, ao contrário da pergunta da LGPD, que pede os dois do mesmo peso. O amarelo continua só no bipar. Aprovada e implementada no app em 29/10/2026 (`RestoreOfferCard`); o design system publicado ainda precisa da variante.
+- **InsightCard de pergunta compacto** ([InicioBackupPendente.png](telas/InicioBackupPendente.png)): o mesmo cartão, quando a casa já tem itens, com o título em 18/24 e os números numa linha de `bipa-insight__why` no lugar dos `bipa-facts`, para a pergunta não disputar com a casa. Aguarda revisão.
 
 ## Como exportar de novo
 
